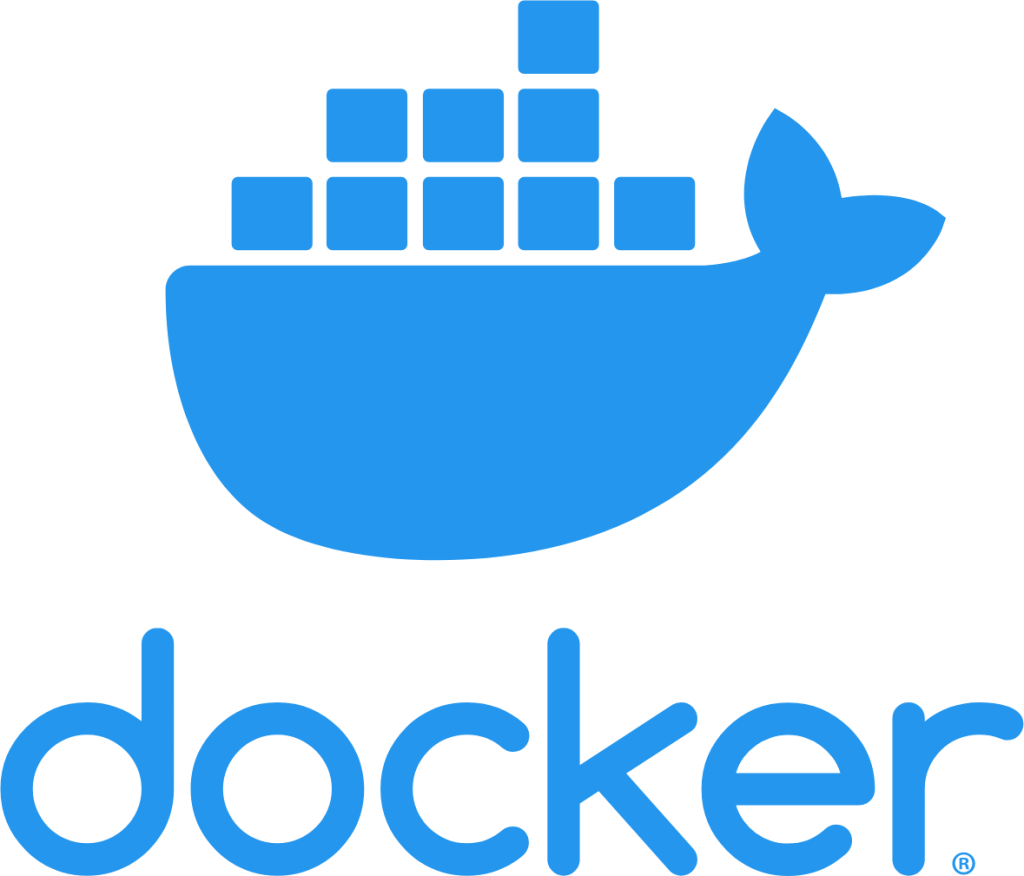
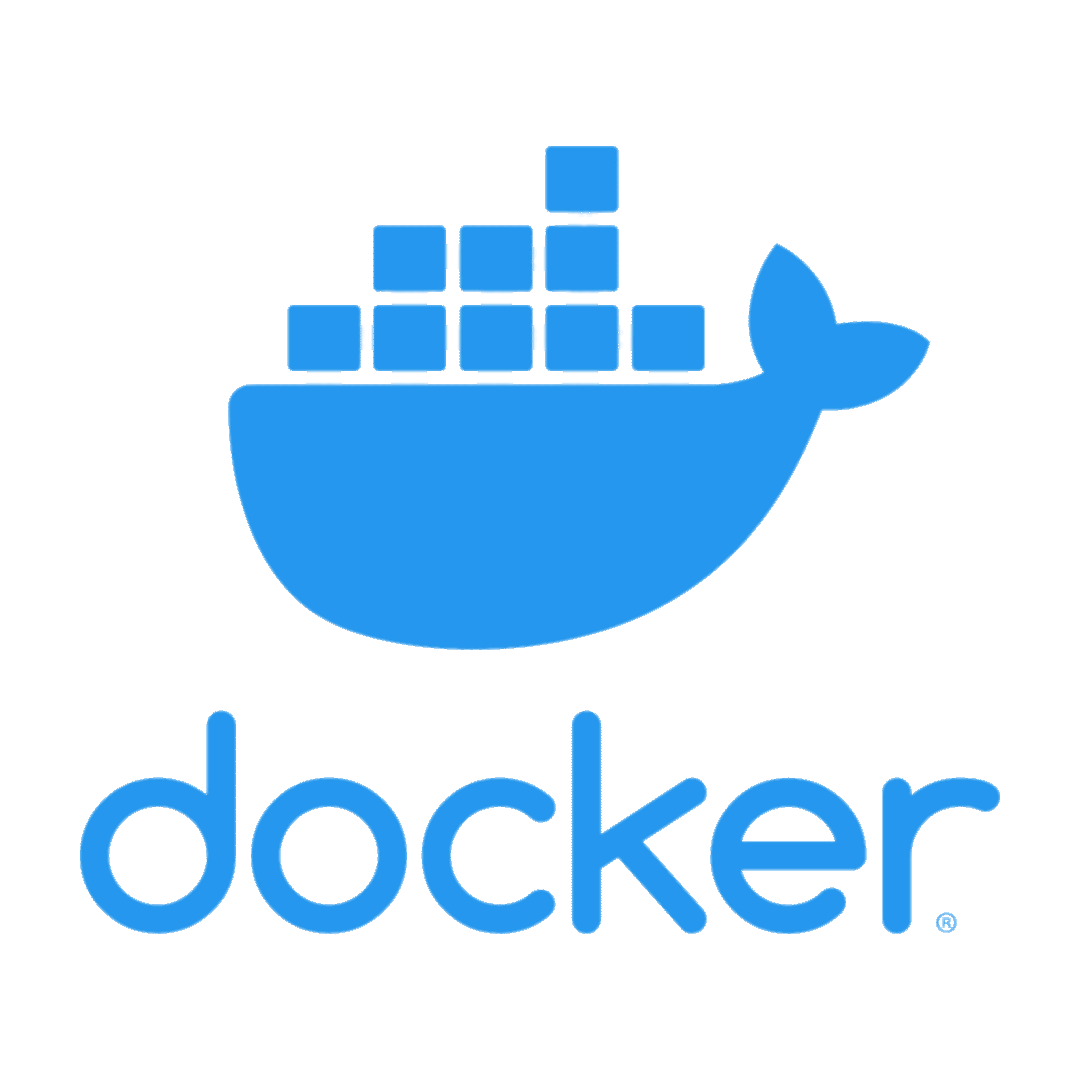
all images finally are beautiful :)
And I added section - 'known' & 'learning'

Changed region(s): [[0.0, 0.0, 1.0, 1.0]]

diff --git a/index.html b/index.html
@@ -217,7 +217,6 @@
     <!-- ======= Skills Section ======= -->
     <section id="skills" class="skills section-bg">
       <div class="container">
-
         <div class="section-title">
           <h2>Skills</h2>
           <p>
@@ -228,23 +227,18 @@
             After a while I got interested in Spring and GIT, and then it went downhill from there
           </p>
         </div>
-<!--          TODO: wstaw ikonki technologii które już umiesz i tych których się uczysz/szlifujesz -->
-<!--        FIXME: te wykresy są raczej średnie honestly speaking-->
-<!--                    (chyba, że dałoby się zrobić okrągły pasek ładowania -->
-<!--                     w środku technologia i na około ładowanie ile % -->
 
         <div class="row skills-content" data-aos="fade-up" data-aos-delay="100">
 
-
-
-            <div class="col-lg-3 col-md-4 portfolio-item filter-app align-content-center">
-              <div class="portfolio-wrap">
-                <img src="assets/img/technologies/java.png" class="img-fluid" alt="">
-              </div>
-            </div>
+          <h3 class="text-center text-secondary">I already know</h3>
           <div class="col-lg-3 col-md-4 portfolio-item filter-app align-content-center">
             <div class="portfolio-wrap">
-              <img src="assets/img/technologies/docker.png" class="img-fluid" alt="">
+              <img src="assets/img/technologies/java.png" class="img-fluid" alt="">
+            </div>
+          </div>
+          <div class="col-lg-3 col-md-4 portfolio-item filter-app align-content-center align-content-center">
+            <div class="portfolio-wrap">
+              <img src="assets/img/technologies/spring.png" class="img-fluid" alt="">
             </div>
           </div>
           <div class="col-lg-3 col-md-4 portfolio-item filter-app align-content-center">
@@ -274,7 +268,12 @@
           </div>
           <div class="col-lg-3 col-md-4 portfolio-item filter-app align-content-center">
             <div class="portfolio-wrap">
-              <img src="assets/img/technologies/postgres.png" class="img-fluid" alt="">
+              <img src="assets/img/technologies/oracle.png" class="img-fluid" alt="">
+            </div>
+          </div>
+          <div class="col-lg-3 col-md-4 portfolio-item filter-app align-content-center">
+            <div class="portfolio-wrap">
+              <img src="assets/img/technologies/docker.png" class="img-fluid" alt="">
             </div>
           </div>
           <div class="col-lg-3 col-md-4 portfolio-item filter-app align-content-center align-content-center">
@@ -282,6 +281,9 @@
               <img src="assets/img/technologies/spring_boot.png" class="img-fluid" alt="">
             </div>
           </div>
+
+
+          <h3 class="text-center text-secondary">I'm still learning</h3>
           <div class="col-lg-3 col-md-4 portfolio-item filter-app align-content-center">
             <div class="portfolio-wrap">
               <img src="assets/img/technologies/spring_cloud.png" class="img-fluid" alt="">
@@ -294,20 +296,9 @@
           </div>
           <div class="col-lg-3 col-md-4 portfolio-item filter-app align-content-center align-content-center">
             <div class="portfolio-wrap">
-              <img src="assets/img/technologies/spring.png" class="img-fluid" alt="">
-            </div>
-          </div>
-          <div class="col-lg-3 col-md-4 portfolio-item filter-app align-content-center align-content-center">
-            <div class="portfolio-wrap">
               <img src="assets/img/technologies/mongodb.png" class="img-fluid" alt="">
             </div>
           </div>
-
-
-
-          <!--          ucze się: -->
-
-
         </div>
 
       </div>
